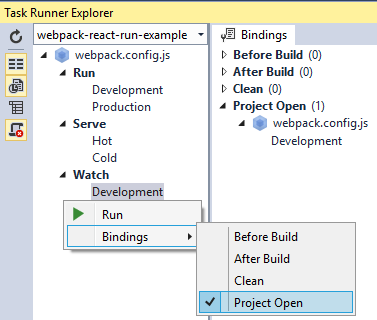
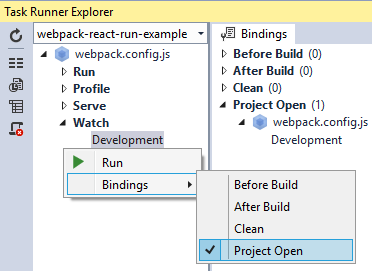
Added "Profile" support for configs

Changed region(s): [[0.0, 0.0, 1.0, 1.0], [0.7097, 0.5018, 0.9167, 0.5314]]

diff --git a/src/TaskRunner/TaskRunner.cs b/src/TaskRunner/TaskRunner.cs
@@ -78,11 +78,13 @@ namespace WebPackTaskRunner
             root.Children.Add(build);
 
             // Profile
-            TaskRunnerNode profile = new TaskRunnerNode("Profile", true)
-            {
-                Description = "Runs 'webpack --profile --json'",
-                Command = GetCommand(cwd, "/c webpack --profile --json > stats.json && echo \x1B[32mThe analyse tool JSON file can be found at ./stats.json. Upload the file at http://webpack.github.io/analyse/.")
-            };
+            TaskRunnerNode profile = new TaskRunnerNode("Profile", false);
+            TaskRunnerNode profileDev = CreateTask(cwd, "Development", "Runs 'webpack --profile'", "/c SET NODE_ENV=development && webpack -d --profile --json > stats.json && echo \x1B[32mThe analyse tool JSON file can be found at ./stats.json. Upload the file at http://webpack.github.io/analyse/.");
+            profile.Children.Add(profileDev);
+
+            TaskRunnerNode profileProd = CreateTask(cwd, "Production", "Runs 'webpack --profile'", "/c SET NODE_ENV=production && webpack -p --profile --json > stats.json && echo \x1B[32mThe analyse tool JSON file can be found at ./stats.json. Upload the file at http://webpack.github.io/analyse/.");
+            profile.Children.Add(profileProd);
+
             root.Children.Add(profile);
 
             // Start
@@ -133,10 +135,10 @@ namespace WebPackTaskRunner
                 if (!match.Success)
                     continue;
 
-                var task = new TaskRunnerNode($"config: {match.Groups["name"].Value}", true)
+                var task = new TaskRunnerNode($"config: {match.Groups["env"].Value}", true)
                 {
                     Description = $"Runs '{parent.Name} --config {fileName}'",
-                    Command = GetCommand(parent.Command.WorkingDirectory, $"{parent.Command.Args} --config {fileName}")
+                    Command = GetCommand(parent.Command.WorkingDirectory, $"{parent.Command.Args.Replace("webpack ", $"webpack --config {fileName} ")}")
                 };
 
                 parent.Children.Add(task);

diff --git a/README.md b/README.md
@@ -76,7 +76,7 @@ side toolbar. The switches are
 3. --display-chunks
 4. --display-error-details
 
-![Switches](art/switches.png)
+![Switches](art/task-list.png)
 
 All switches are toggle button that can be left
 on or off for as long as needed.
